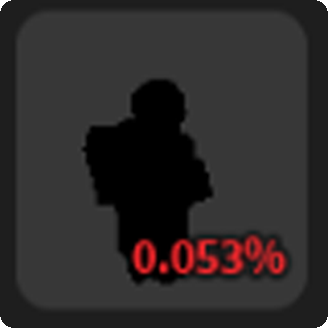
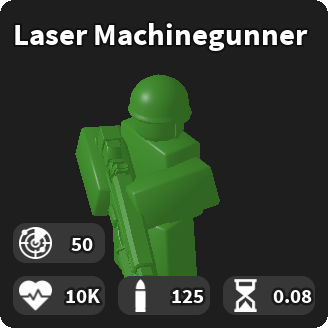
add laser machinegunner

diff --git a/database.js b/database.js
@@ -295,6 +295,12 @@ const itemDatabase = [
     rarity: "Mythical",
     rate: 0.0106,
     image: "images/items/laser_machinegunner.png",
+    stats: {
+      health: 10000,
+      damage: 125,
+      reload_time: 0.08,
+      range: 50,
+    },
   },
   {
     name: "Orbital Tech",
